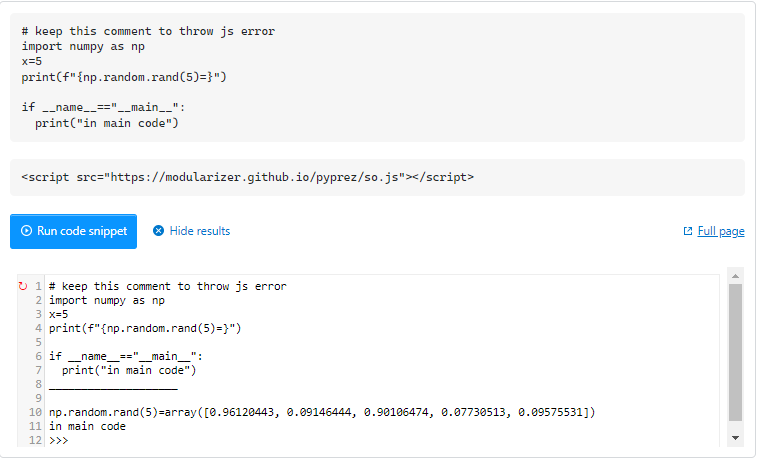
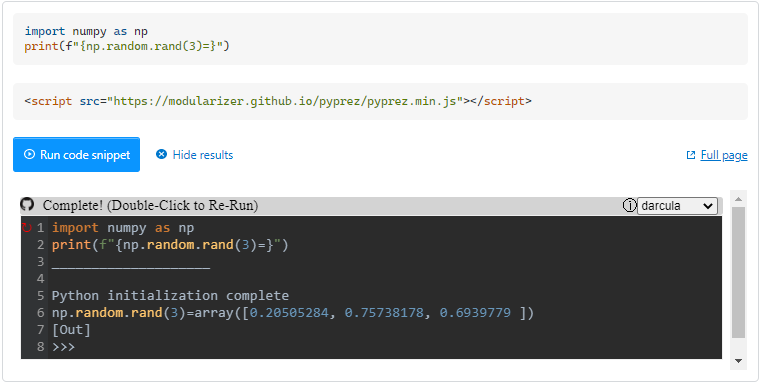
stackconverter fix

diff --git a/pyprez.min.js b/pyprez.min.js
@@ -90,19 +90,22 @@ if(!window.pyprezInitStarted){console.log("loaded pyprez.js from",location.href)
     </svg>
     ${this.getRunnable()}
     </pre>
-            `}getRunnable(){return`${this.header}
-    &lt!-- begin snippet: js hide: false console: false babel: false --&gt
+            `}getRunnable(){let c=this.code.split("\n").map(line=>"    "+line).join("\n");return`
 
-      &lt!-- language: lang-js --&gt
-        # keep this comment
-        ${this.code}
 
-     &lt!-- language: lang-html --&gt
+&lt!-- begin snippet: js hide: false console: false babel: false --&gt
 
-        &ltscript src=${preferredPyPrezImportSrc}&gt&lt/script&gt
+&lt!-- language: lang-js -->
 
-    &lt!-- end snippet --&gt
-    </pre>`}}window.addEventListener("load",()=>{customElements.define("stack-overflow",StackOverflow)});class StackOverflowConverter extends HTMLElement{constructor(){super();let ih=this.innerHTML;let mode=this.hasAttribute("mode")?`mode=${this.getAttribute("mode")}`:"";let src=this.hasAttribute("src")?`src=${this.getAttribute("src")}`:"";let namespace=this.hasAttribute("namespace")?this.getAttribute("namespace"):"global";pyprez.recordNamespaceName(this.namespace);this.innerHTML=`
+    #!/usr/bin/env python
+${c}
+&lt!-- language: lang-html --&gt
+
+    &ltscript src="https://modularizer.github.io/pyprez/pyprez.min.js"&gt&lt/script&gt
+
+
+&lt!-- end snippet --&gt
+</pre>`}}window.addEventListener("load",()=>{customElements.define("stack-overflow",StackOverflow)});class StackOverflowConverter extends HTMLElement{constructor(){super();let ih=this.innerHTML;let mode=this.hasAttribute("mode")?`mode=${this.getAttribute("mode")}`:"";let src=this.hasAttribute("src")?`src=${this.getAttribute("src")}`:"";let namespace=this.hasAttribute("namespace")?this.getAttribute("namespace"):"global";pyprez.recordNamespaceName(this.namespace);this.innerHTML=`
             <div style="display:flex">
                 <div style="flex:50%">
                     <b>Edit your python snippet here...</b>

diff --git a/pyprez.js b/pyprez.js
@@ -1385,19 +1385,23 @@ if (!window.pyprezInitStarted){// allow importing this script multiple times wit
             `
         }
         getRunnable(){
-            return `${this.header}
-    &lt!-- begin snippet: js hide: false console: false babel: false --&gt
+            let c = this.code.split("\n").map(line => "    " + line).join("\n")
+            return `
 
-      &lt!-- language: lang-js --&gt
-        # keep this comment
-        ${this.code}
 
-     &lt!-- language: lang-html --&gt
+&lt!-- begin snippet: js hide: false console: false babel: false --&gt
 
-        &ltscript src=${preferredPyPrezImportSrc}&gt&lt/script&gt
+&lt!-- language: lang-js -->
 
-    &lt!-- end snippet --&gt
-    </pre>`
+    #!/usr/bin/env python
+${c}
+&lt!-- language: lang-html --&gt
+
+    &ltscript src="https://modularizer.github.io/pyprez/pyprez.min.js"&gt&lt/script&gt
+
+
+&lt!-- end snippet --&gt
+</pre>`
         }
     }
     window.addEventListener("load", ()=>{

diff --git a/stackconverter.html b/stackconverter.html
@@ -8,14 +8,12 @@
 <body>
 <stack-converter codeblock="false">
 import random
-
 x = 5
 
 if __name__=="__main__":
-        print(f"my random number is {random.random()}")
-
-        # now produce an error to debug
-        print(x[2])
+    print(f"my random number is {random.random()}")
+    print(f"{x=}")
+    raise Exception("this error is intentional but some will not be")
 </stack-converter>
 </body>
 </html>
